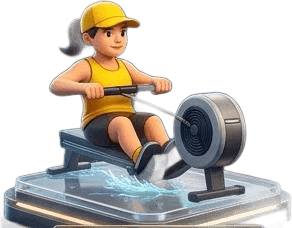
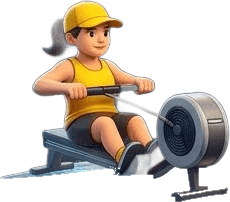
feat(race): 캐릭터 컷아웃 바닥 제거 + RaceView 이미지 스프라이트 적용
- 컷아웃 6종(c1~c2, c4~c7) 하단 홀로 플랫폼 제거: 폴리라인+플라이휠 실린더 보호+
  머신 keep박스+유리 컬러킬+연결성 필터로 유리 슬랩만 소거(머신 다리/스탠드 보존)
- LaneRow: rower 기기 시 RowerSprite 대신 컷아웃 이미지(레인 순환 rowerCharSrc)
- charStroke 로킹(--stroke-dur=실측 SPM 동기, idle 일시정지) — 기존 보빙/리더 글로우 유지
- RowerSprite SVG·전용 키프레임·--bcl-race-char-* 팔레트 제거(미사용)

Claude-Session: https://claude.ai/code/session_01QASTpL1iF3TPvrQYGyJDbE

diff --git a/src/features/class-race/race.module.css b/src/features/class-race/race.module.css
@@ -323,117 +323,28 @@
   line-height: 1;
   filter: drop-shadow(0 0 14px var(--team-color, transparent));
 }
-/* ── 로워 SVG 스프라이트(레퍼런스 캐릭터) — 스트로크 사이클은 --stroke-dur(SPM) 동기 ──
-   높이는 레인 수(--lane-count, stage 인라인)에 맞춰 자동 스케일(겹침 방지) */
-.rower {
+/* ── 로워 캐릭터 컷아웃(public/race/chars — 레퍼런스 원화 분리 자산) ──
+   높이는 레인 수(--lane-count, stage 인라인)에 맞춰 자동 스케일(겹침 방지).
+   스트로크 로킹은 --stroke-dur(실측 SPM, 애니메이터 주입) 동기 — 드라이브/리커버리 리듬 */
+.charImg {
   display: block;
   height: min(26vh, 230px);
   width: auto;
-  overflow: visible;
+  user-select: none;
+  transform-origin: 50% 88%;
+  animation: charStroke var(--stroke-dur, 2.4s) ease-in-out infinite;
 }
-/* SVG 스프라이트 사용 시 이모지용 물결 링 제거(자체 물보라 보유) */
-.kartSprite:has(.rower)::after {
-  display: none;
-}
-/* 스트로크 축 = 레일 방향(뒤 우상 ↔ 앞 좌하). 0%=캐치(앞), 38%=피니시(뒤) */
-.rowSeat {
-  animation: rowSeat var(--stroke-dur, 2.4s) ease-in-out infinite;
-}
-@keyframes rowSeat {
+@keyframes charStroke {
   0%,
   100% {
-    transform: translate(-5px, 1px);
+    transform: rotate(-1.6deg) translateX(-3px); /* 캐치(앞) */
   }
   38% {
-    transform: translate(12px, -2px);
+    transform: rotate(2.2deg) translateX(4px); /* 피니시(뒤) */
   }
 }
-.rowBody {
-  transform-box: view-box;
-  transform-origin: 119px 86px;
-  animation: rowBody var(--stroke-dur, 2.4s) ease-in-out infinite;
-}
-@keyframes rowBody {
-  0%,
-  100% {
-    transform: rotate(-9deg);
-  }
-  38% {
-    transform: rotate(10deg);
-  }
-}
-.rowArm {
-  animation: rowArm var(--stroke-dur, 2.4s) ease-in-out infinite;
-}
-@keyframes rowArm {
-  0%,
-  100% {
-    transform: translate(-6px, 1.2px);
-  }
-  38% {
-    transform: translate(14px, -2.4px);
-  }
-}
-.rowChain {
-  transform-box: view-box;
-  transform-origin: 52px 89px;
-  animation: rowChain var(--stroke-dur, 2.4s) ease-in-out infinite;
-}
-@keyframes rowChain {
-  0%,
-  100% {
-    transform: scaleX(0.55);
-  }
-  38% {
-    transform: scaleX(1.35);
-  }
-}
-.rowFly {
-  transform-box: view-box;
-  transform-origin: 48px 90px;
-  animation: rowFly var(--stroke-dur, 2.4s) linear infinite;
-}
-@keyframes rowFly {
-  to {
-    transform: rotate(360deg);
-  }
-}
-/* 물보라 플러터(고정 주기 — SPM 무관) */
-.splashA,
-.splashB {
-  fill: var(--bcl-race-char-light);
-  opacity: 0.55;
-  transform-box: fill-box;
-  transform-origin: center;
-  animation: splashKf 0.55s ease-in-out infinite alternate;
-}
-.splashB {
-  animation-duration: 0.48s;
-  animation-delay: 0.18s;
-}
-@keyframes splashKf {
-  from {
-    transform: scale(0.8);
-    opacity: 0.35;
-  }
-  to {
-    transform: scale(1.12);
-    opacity: 0.65;
-  }
-}
-/* 리더 헬멧+고글 — data-rank=1에서만 */
-.helmet {
-  opacity: 0;
-}
-.kart[data-rank='1'] .helmet {
-  opacity: 1;
-}
-/* idle(스트로크 정지) 시 파트 애니메이션 일시정지 */
-.kartSprite[data-idle='true'] .rowSeat,
-.kartSprite[data-idle='true'] .rowBody,
-.kartSprite[data-idle='true'] .rowArm,
-.kartSprite[data-idle='true'] .rowChain,
-.kartSprite[data-idle='true'] .rowFly {
+/* idle(스트로크 정지) 시 로킹 일시정지 */
+.kartSprite[data-idle='true'] .charImg {
   animation-play-state: paused;
 }
 /* 스피드 스트릭 — 캐릭터 뒤로 흐르는 팀컬러 잔상 */

diff --git a/src/features/class-race/RaceView.tsx b/src/features/class-race/RaceView.tsx
@@ -15,8 +15,8 @@ import {
   characterForDevice,
   defaultDeviceForTheme,
   teamColorVar,
+  rowerCharSrc,
 } from './device-theme';
-import { RowerSprite } from './RowerSprite';
 import type { DeviceType } from '@/features/race-admin/types';
 import styles from './race.module.css';
 
@@ -298,7 +298,13 @@ function LaneRow({
       {/* 밴드 회전 상쇄 — 스프라이트/이름은 화면 기준 수직 */}
       <span className={styles.kartLift}>
         <div ref={spriteRef} className={styles.kartSprite}>
-          {deviceType === 'rower' ? <RowerSprite /> : glyph}
+          {deviceType === 'rower' ? (
+            // 레퍼런스 원화 컷아웃(레인 순환) — 스트로크 로킹은 CSS(--stroke-dur=실측 SPM)
+            // eslint-disable-next-line @next/next/no-img-element -- rAF 스테이지 자산, next/image 불필요
+            <img src={rowerCharSrc(index)} alt="" className={styles.charImg} draggable={false} />
+          ) : (
+            glyph
+          )}
         </div>
         <span className={styles.kartName}>
           {meta.virtual ? 'PACER' : meta.member_name ?? `레인 ${index + 1}`}

diff --git a/src/features/class-race/device-theme.ts b/src/features/class-race/device-theme.ts
@@ -71,6 +71,24 @@ export function animationDurationSec(
   }
 }
 
+/**
+ * 로워 캐릭터 컷아웃(public/race/chars — 레퍼런스 원화 분리 자산) 레인 순환 배정.
+ * bike/ski/run 컷아웃은 후속 — 현재는 rower만 이미지, 그 외 글리프 폴백(LaneRow).
+ */
+const ROWER_CHARS = [
+  'c1-bald-green',
+  'c2-whitecap',
+  'c3-leader',
+  'c4-yellow-pony',
+  'c5-blue',
+  'c6-beard-red',
+  'c7-red-pony-teal',
+] as const;
+
+export function rowerCharSrc(index: number): string {
+  return `/race/chars/${ROWER_CHARS[index % ROWER_CHARS.length]}.png`;
+}
+
 /** 팀 컬러 토큰 8색 순환 (--bcl-race-team-1..8) */
 export function teamColorVar(index: number): string {
   return `var(--bcl-race-team-${(index % 8) + 1})`;

diff --git a/src/features/class-race/useRaceAnimator.ts b/src/features/class-race/useRaceAnimator.ts
@@ -196,7 +196,7 @@ export function useRaceAnimator(
         if (reg.sprite) {
           const dur = animationDurationSec(reg.deviceType, a.spm);
           reg.sprite.style.animationDuration = `${dur.toFixed(2)}s`;
-          // SVG 스프라이트 내부 파트(시트/상체/팔/체인/플라이휠)가 상속받는 스트로크 주기
+          // 캐릭터 컷아웃(.charImg) 스트로크 로킹이 상속받는 주기(실측 SPM)
           reg.sprite.style.setProperty('--stroke-dur', `${dur.toFixed(2)}s`);
           reg.sprite.setAttribute('data-idle', a.spm < 6 ? 'true' : 'false');
         }

diff --git a/src/styles/tokens.css b/src/styles/tokens.css
@@ -163,12 +163,3 @@
   --bcl-race-neon-b: #ff3dbe;
 }
 
-/* 레이스 캐릭터 팔레트(SVG 스프라이트 — 컴포넌트는 var만 사용, hex는 여기만) */
-:root {
-  --bcl-race-char-skin: #f2c49b;
-  --bcl-race-char-skin-shade: #d9a877;
-  --bcl-race-char-dark: #232a38;
-  --bcl-race-char-metal: #3c4454;
-  --bcl-race-char-metal-hi: #5f6a82;
-  --bcl-race-char-light: #eaf6ff;
-}
